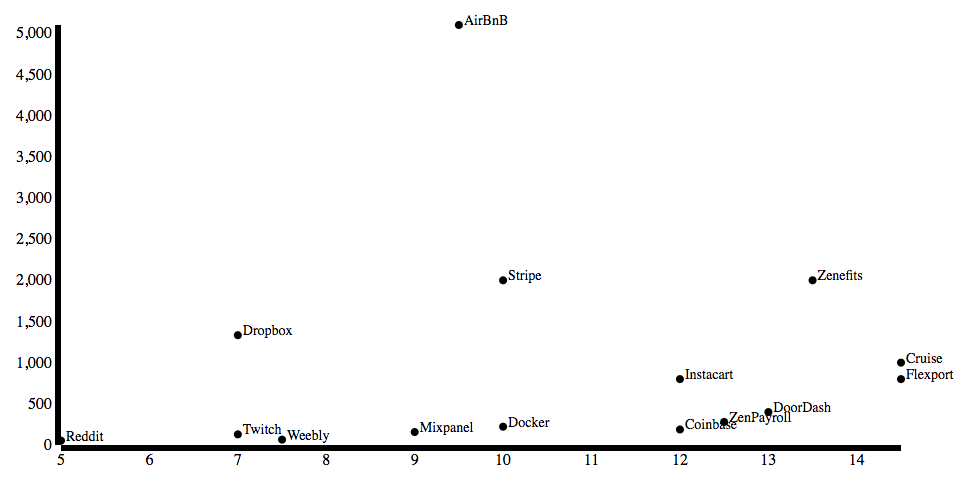
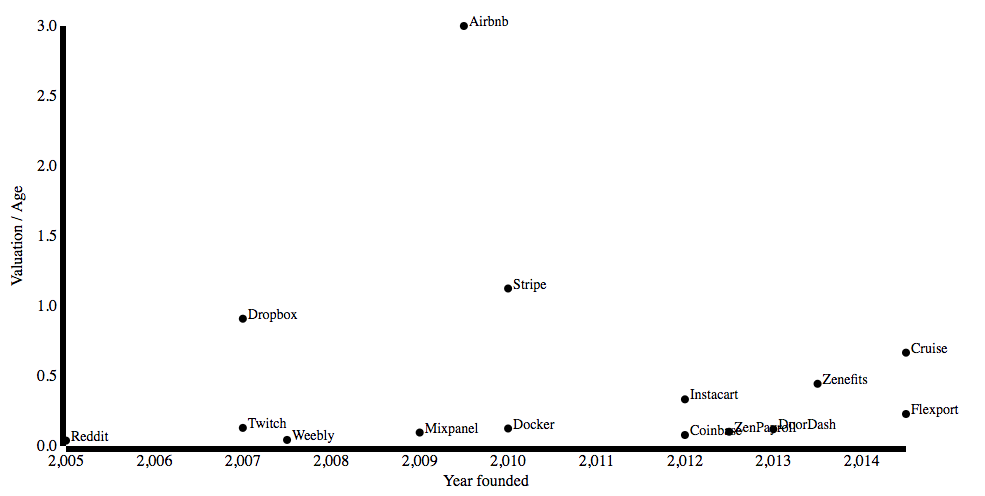
better structure; label axes

diff --git a/main.html b/main.html
@@ -3,45 +3,34 @@
 <div class='content'></div>
 
 <script>
-// name, valuation (millions), founding time
-var data_lines = [
-  'Cruise 1000 W14',
-  'Flexport 800 W14',
-  'AirBnB  25500 W09',
-  'Dropbox 10000 S07',
-  'Zenefits  2000  W13',
-  'Stripe  9000  S10',
-  'Instacart 2000  S12',
-  'Docker  1000  S10',
-  'Twitch  970 S07',
-  'Mixpanel  865 S09',
-  'DoorDash  600 S13',
-  'ZenPayroll  560 W12',
-  'Reddit  500 S05',
-  'Coinbase  471 S12',
-  'Weebly  455 W07',
-];
+var companies = [
+  {name: 'Cruise', valuation_billions: 1, year_founded: 2014.5, year_exited: 2016},
+  {name: 'Flexport', valuation_billions: .8, year_founded: 2014.5},
+  {name: 'Airbnb', valuation_billions: 25.5, year_founded: 2009.5},
+  {name: 'Dropbox', valuation_billions: 10, year_founded: 2007},
+  {name: 'Zenefits', valuation_billions: 2, year_founded: 2013.5},
+  {name: 'Stripe', valuation_billions: 9, year_founded: 2010},
+  {name: 'Instacart', valuation_billions: 2, year_founded: 2012},
+  {name: 'Docker', valuation_billions: 1, year_founded: 2010},
+  {name: 'Twitch', valuation_billions: .97, year_founded: 2007, year_exited: 2014.5},
+  {name: 'Mixpanel', valuation_billions: .865, year_founded: 2009},
+  {name: 'DoorDash', valuation_billions: .6, year_founded: 2013},
+  {name: 'ZenPayroll', valuation_billions: .56, year_founded: 2012.5},
+  {name: 'Reddit', valuation_billions: .5, year_founded: 2005},
+  {name: 'Coinbase', valuation_billions: .471, year_founded: 2012},
+  {name: 'Weebly', valuation_billions: .455, year_founded: 2007.5},
+]
 
-var airbnb_valuation = [(10, 2014), (25.5, 2015), (30, 2016)];
-
-var time_of_snapshot = 5 + (14.5 - 5);
-var tuples = [];
-var companies = [];
-
-data_lines.forEach(function(line) {
-  split = line.split(/ +/);
-  var company = split[0], valuation = split[1], founding_time = split[2];
-  valuation = parseInt(valuation);
-  founding_time = parseInt(founding_time.slice(1)) + (founding_time[0] == 'W' ? 0.5 : 0);
-  age_of_company = time_of_snapshot - founding_time;
-  annualized_valuation = valuation / (age_of_company > 0 ? age_of_company : 1);
-  // annualized_valuation = valuation;
-  tuples.push([company, founding_time, annualized_valuation]);
-  console.log('co:', [company, founding_time, annualized_valuation].toString());
+companies.forEach(function(company) {
+  var age = new Date().getFullYear() - company.year_founded;
+  if(company.year_exited)
+    age = company.year_exited - company.year_founded;
+  company.annualized_valuation = company.valuation_billions / age;
 });
 
-tuples.sort(function(a, b) { return a[1] - b[1]; });
-var data = tuples;
+companies.sort(function(a, b) { return a.year_founded - b.year_founded; });
+var data = companies;
+console.log('companies:', companies);
 </script>
 
 <script type="text/javascript" src="scatterchart.js"></script>

diff --git a/scatterchart.js b/scatterchart.js
@@ -4,13 +4,13 @@ var margin = {top: 20, right: 60, bottom: 60, left: 60}
 
 var x = d3.scale.linear()
           .domain([
-            d3.min(data, function(d) { return d[1]; }),
-            d3.max(data, function(d) { return d[1]; })
+            d3.min(data, function(d) { return d.year_founded; }),
+            d3.max(data, function(d) { return d.year_founded; })
           ])
           .range([ 0, width ]);
 
 var y = d3.scale.linear()
-        .domain([0, d3.max(data, function(d) { return d[2]; })])
+        .domain([0, d3.max(data, function(d) { return d.annualized_valuation; })])
         .range([ height, 0 ]);
 
 var chart = d3.select('body')
@@ -35,6 +35,13 @@ main.append('g')
 .attr('class', 'main axis date')
 .call(xAxis);
 
+main.append("text")
+  .attr("transform",
+        "translate(" + (width/2) + " ," +
+                       (height + margin.top + 20) + ")")
+  .style("text-anchor", "middle")
+  .text("Year founded");
+
 // draw the y axis
 var yAxis = d3.svg.axis()
 .scale(y)
@@ -45,13 +52,22 @@ main.append('g')
 .attr('class', 'main axis date')
 .call(yAxis);
 
+// text label for the y axis
+main.append("text")
+    .attr("transform", "rotate(-90)")
+    .attr("y", 0 - margin.left)
+    .attr("x",0 - (height / 2))
+    .attr("dy", "1em")
+    .style("text-anchor", "middle")
+    .text("Valuation / Age");
+
 var g = main.append("svg:g");
 
 g.selectAll("scatter-dots")
   .data(data)
   .enter().append("svg:circle")
-      .attr("cx", function (d,i) { return x(d[1]); } )
-      .attr("cy", function (d) { return y(d[2]); } )
+      .attr("cx", function (d,i) { return x(d.year_founded); } )
+      .attr("cy", function (d) { return y(d.annualized_valuation); } )
       .attr("r", 4);
 
 
@@ -59,13 +75,13 @@ g.selectAll("text")
   .data(data)
   .enter().append("text")
     .text(function(d) {
-        return d[0];
+        return d.name;
     })
     .attr("x", function(d) {
-        return x(d[1]) + 5;  // Returns scaled location of x
+        return x(d.year_founded) + 5;  // Returns scaled location of x
     })
     .attr("y", function(d) {
-        return y(d[2]);  // Returns scaled circle y
+        return y(d.annualized_valuation);  // Returns scaled circle y
     })
     .attr("font_family", "sans-serif")  // Font type
     .attr("font-size", "14px")  // Font size
